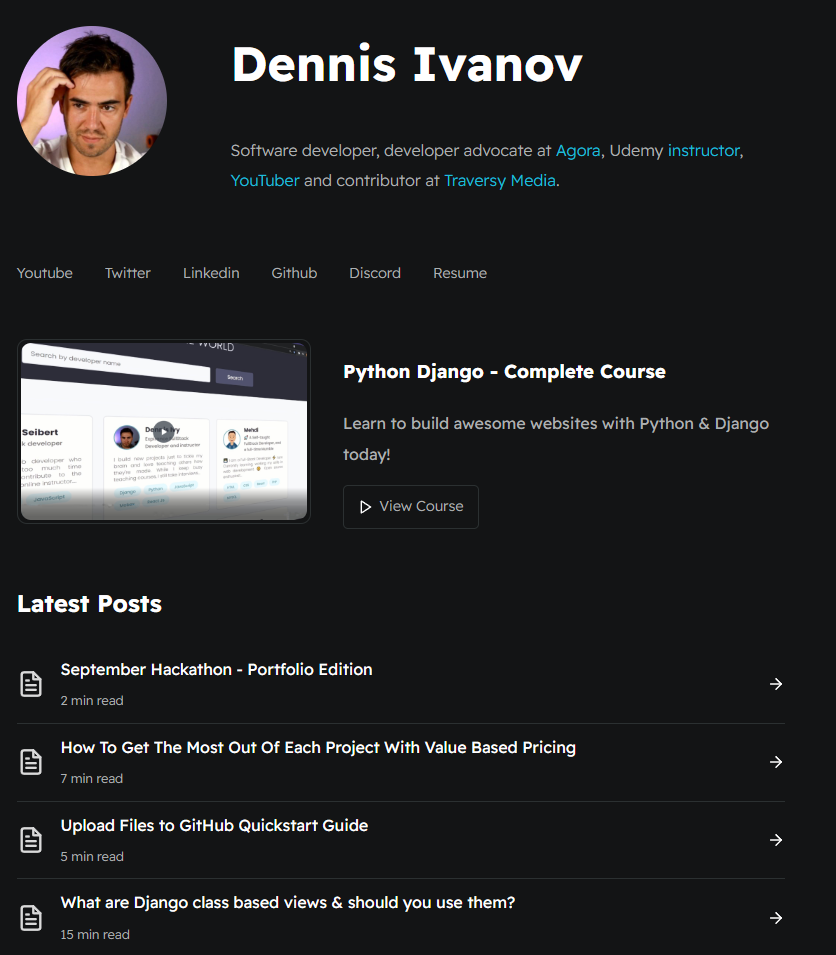
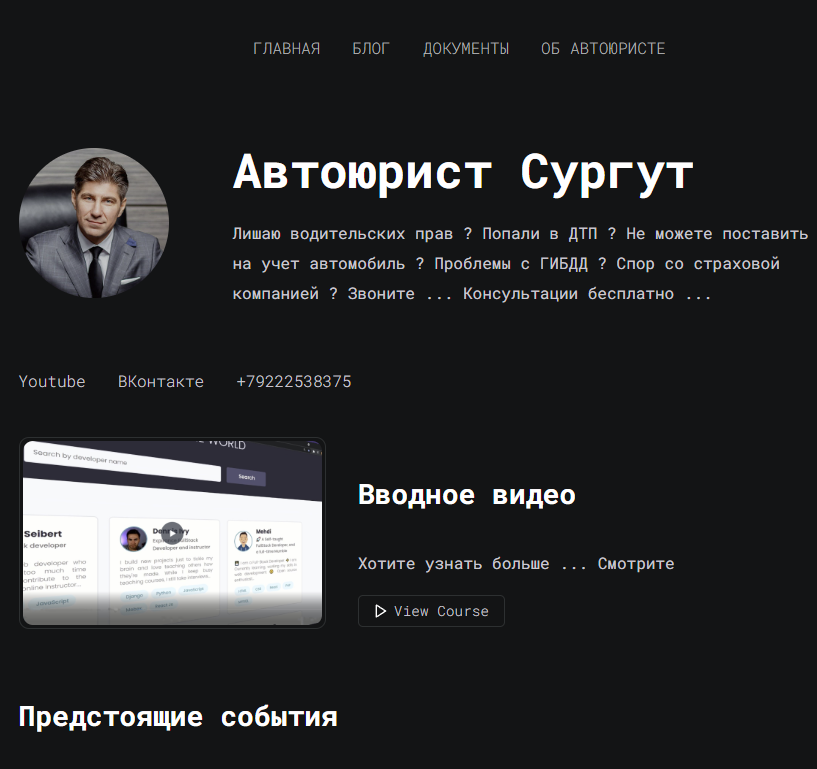
First commit

diff --git a/README.md b/README.md
@@ -1,8 +1,8 @@
-# Welcome to [DennisIvy.com](https://www.dennisivy.com/)
+# Приветствуем Вас на сайта [Аавтоюрист Сургут](https://.avtourist-surgut.ru)
 
-My personal website re-built With [Astro](https://astro.build).
+Наше приложение создано с помощью технологии [Astro](https://astro.build).
 
-This is a simple static site that I will use for blogging.
+Это простой статический сайт, который я буду использовать для ведения блога.
 
 <img style="max-width:500px" src="public/images/preview.PNG">
 
